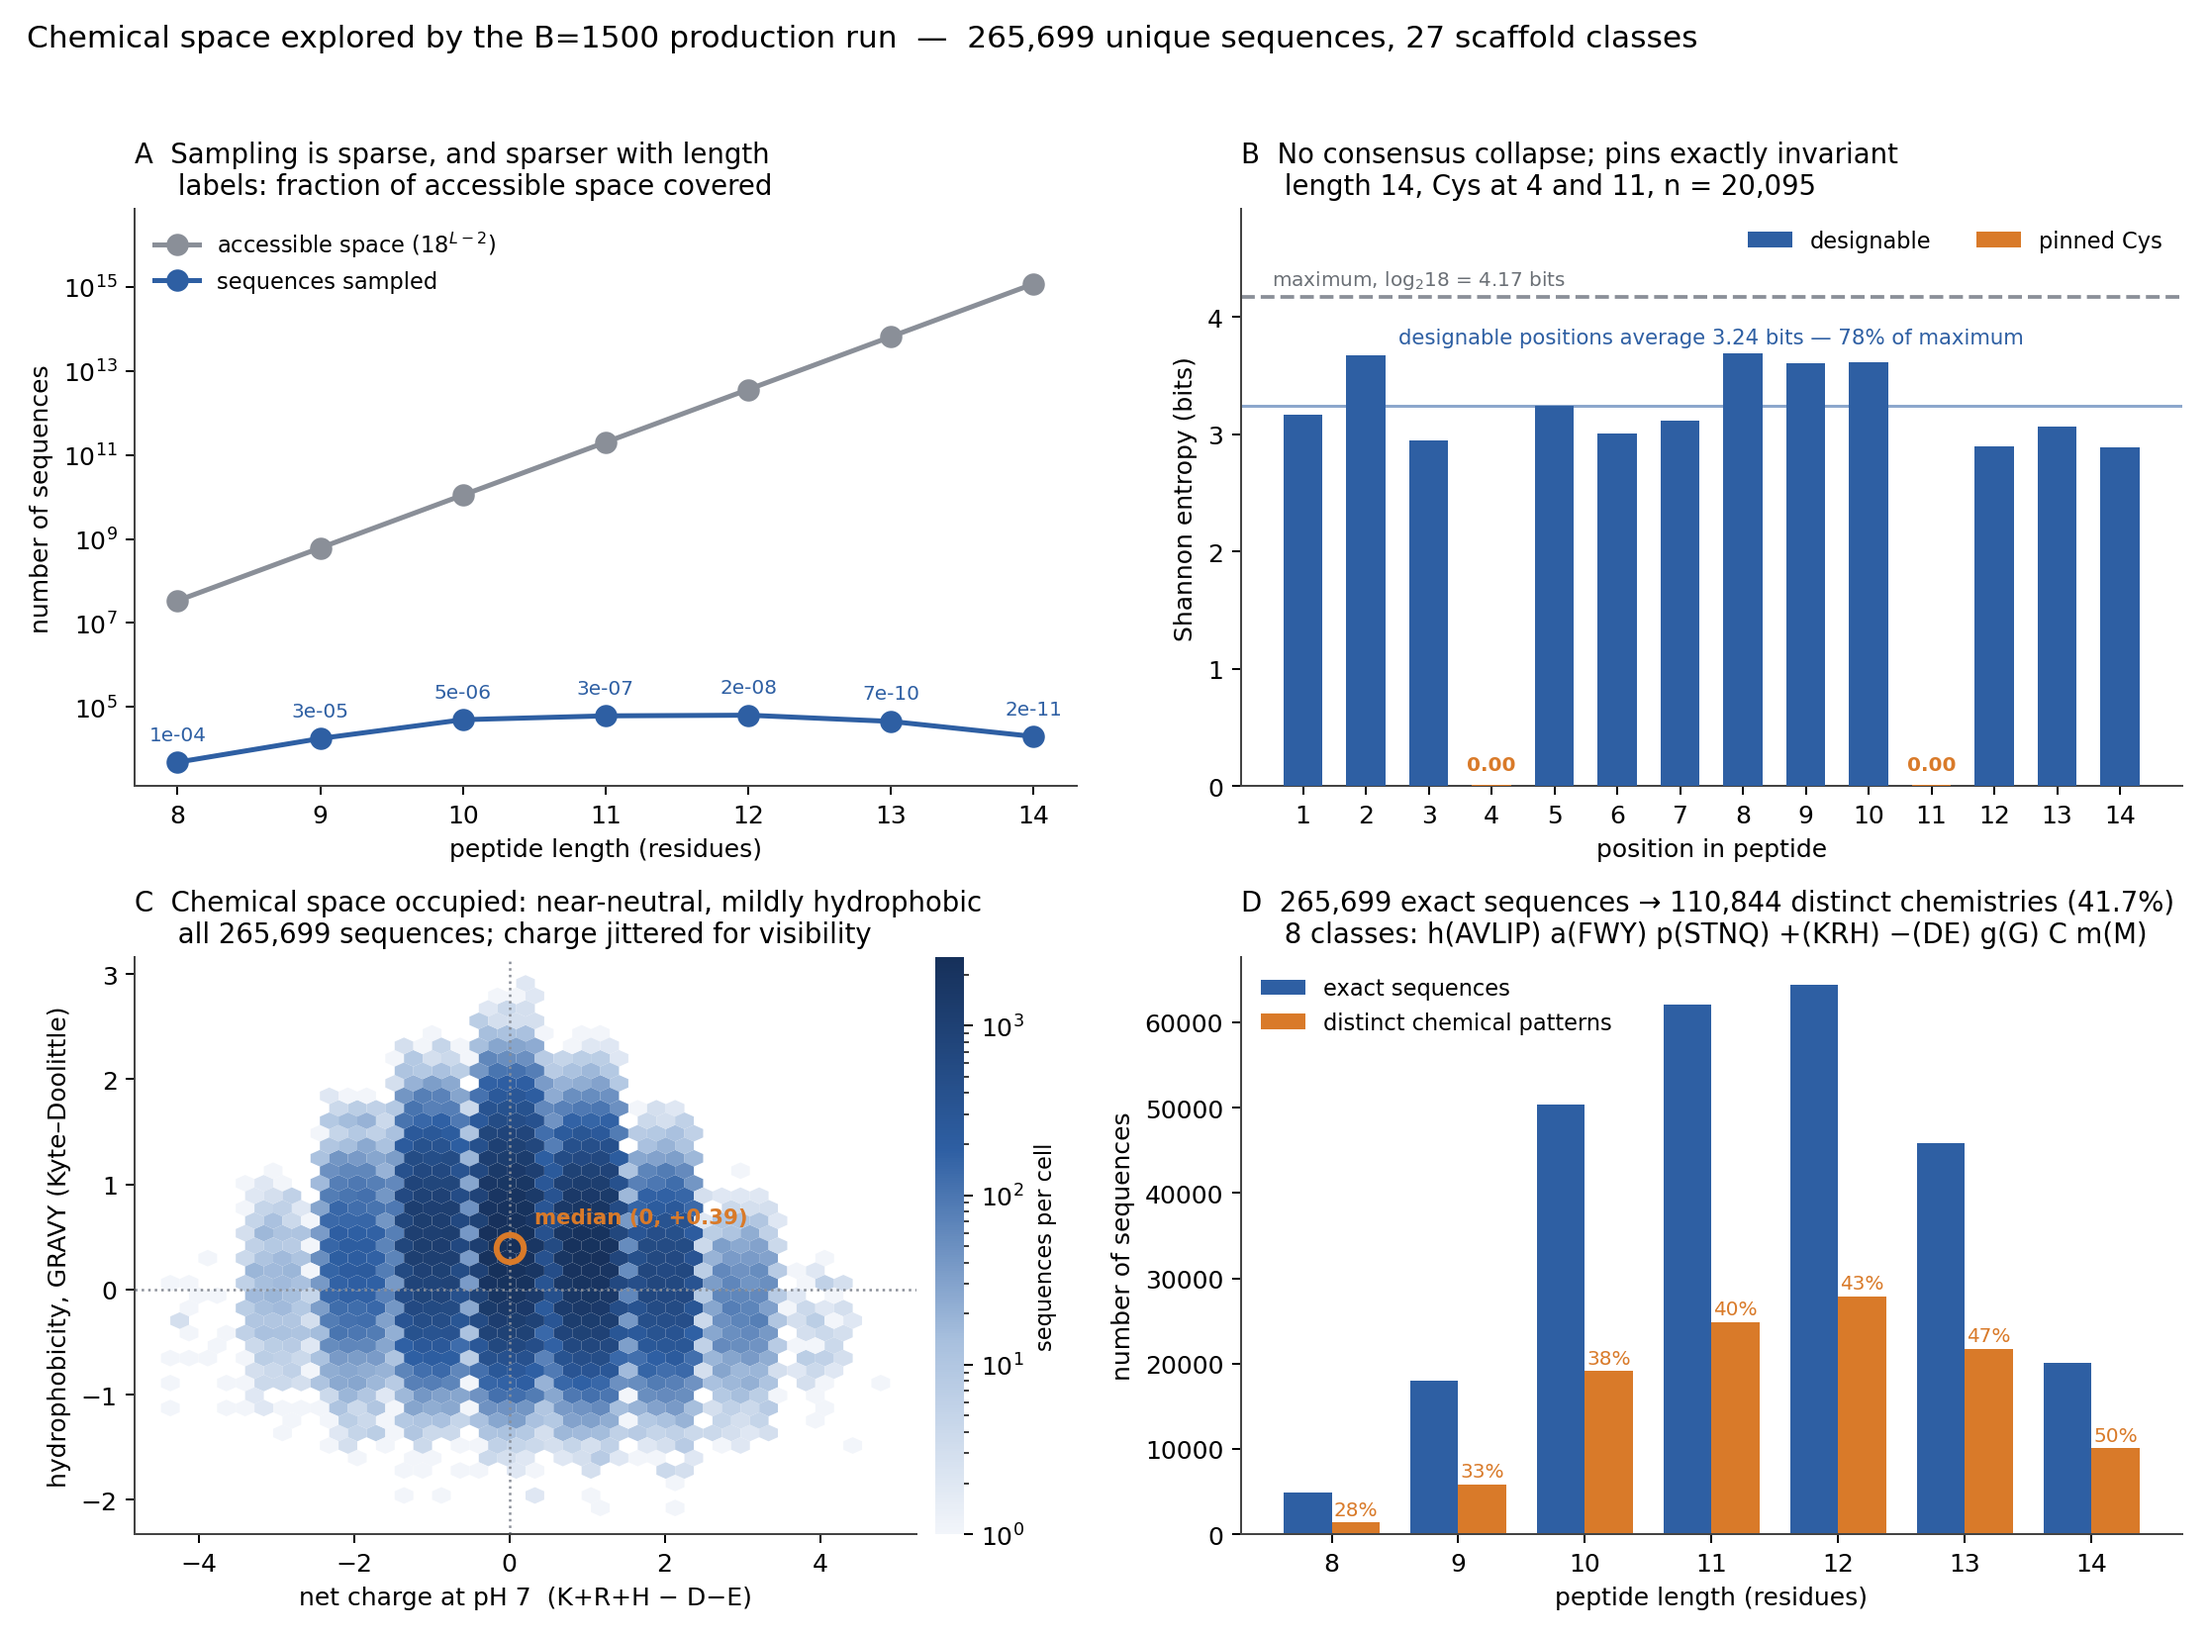
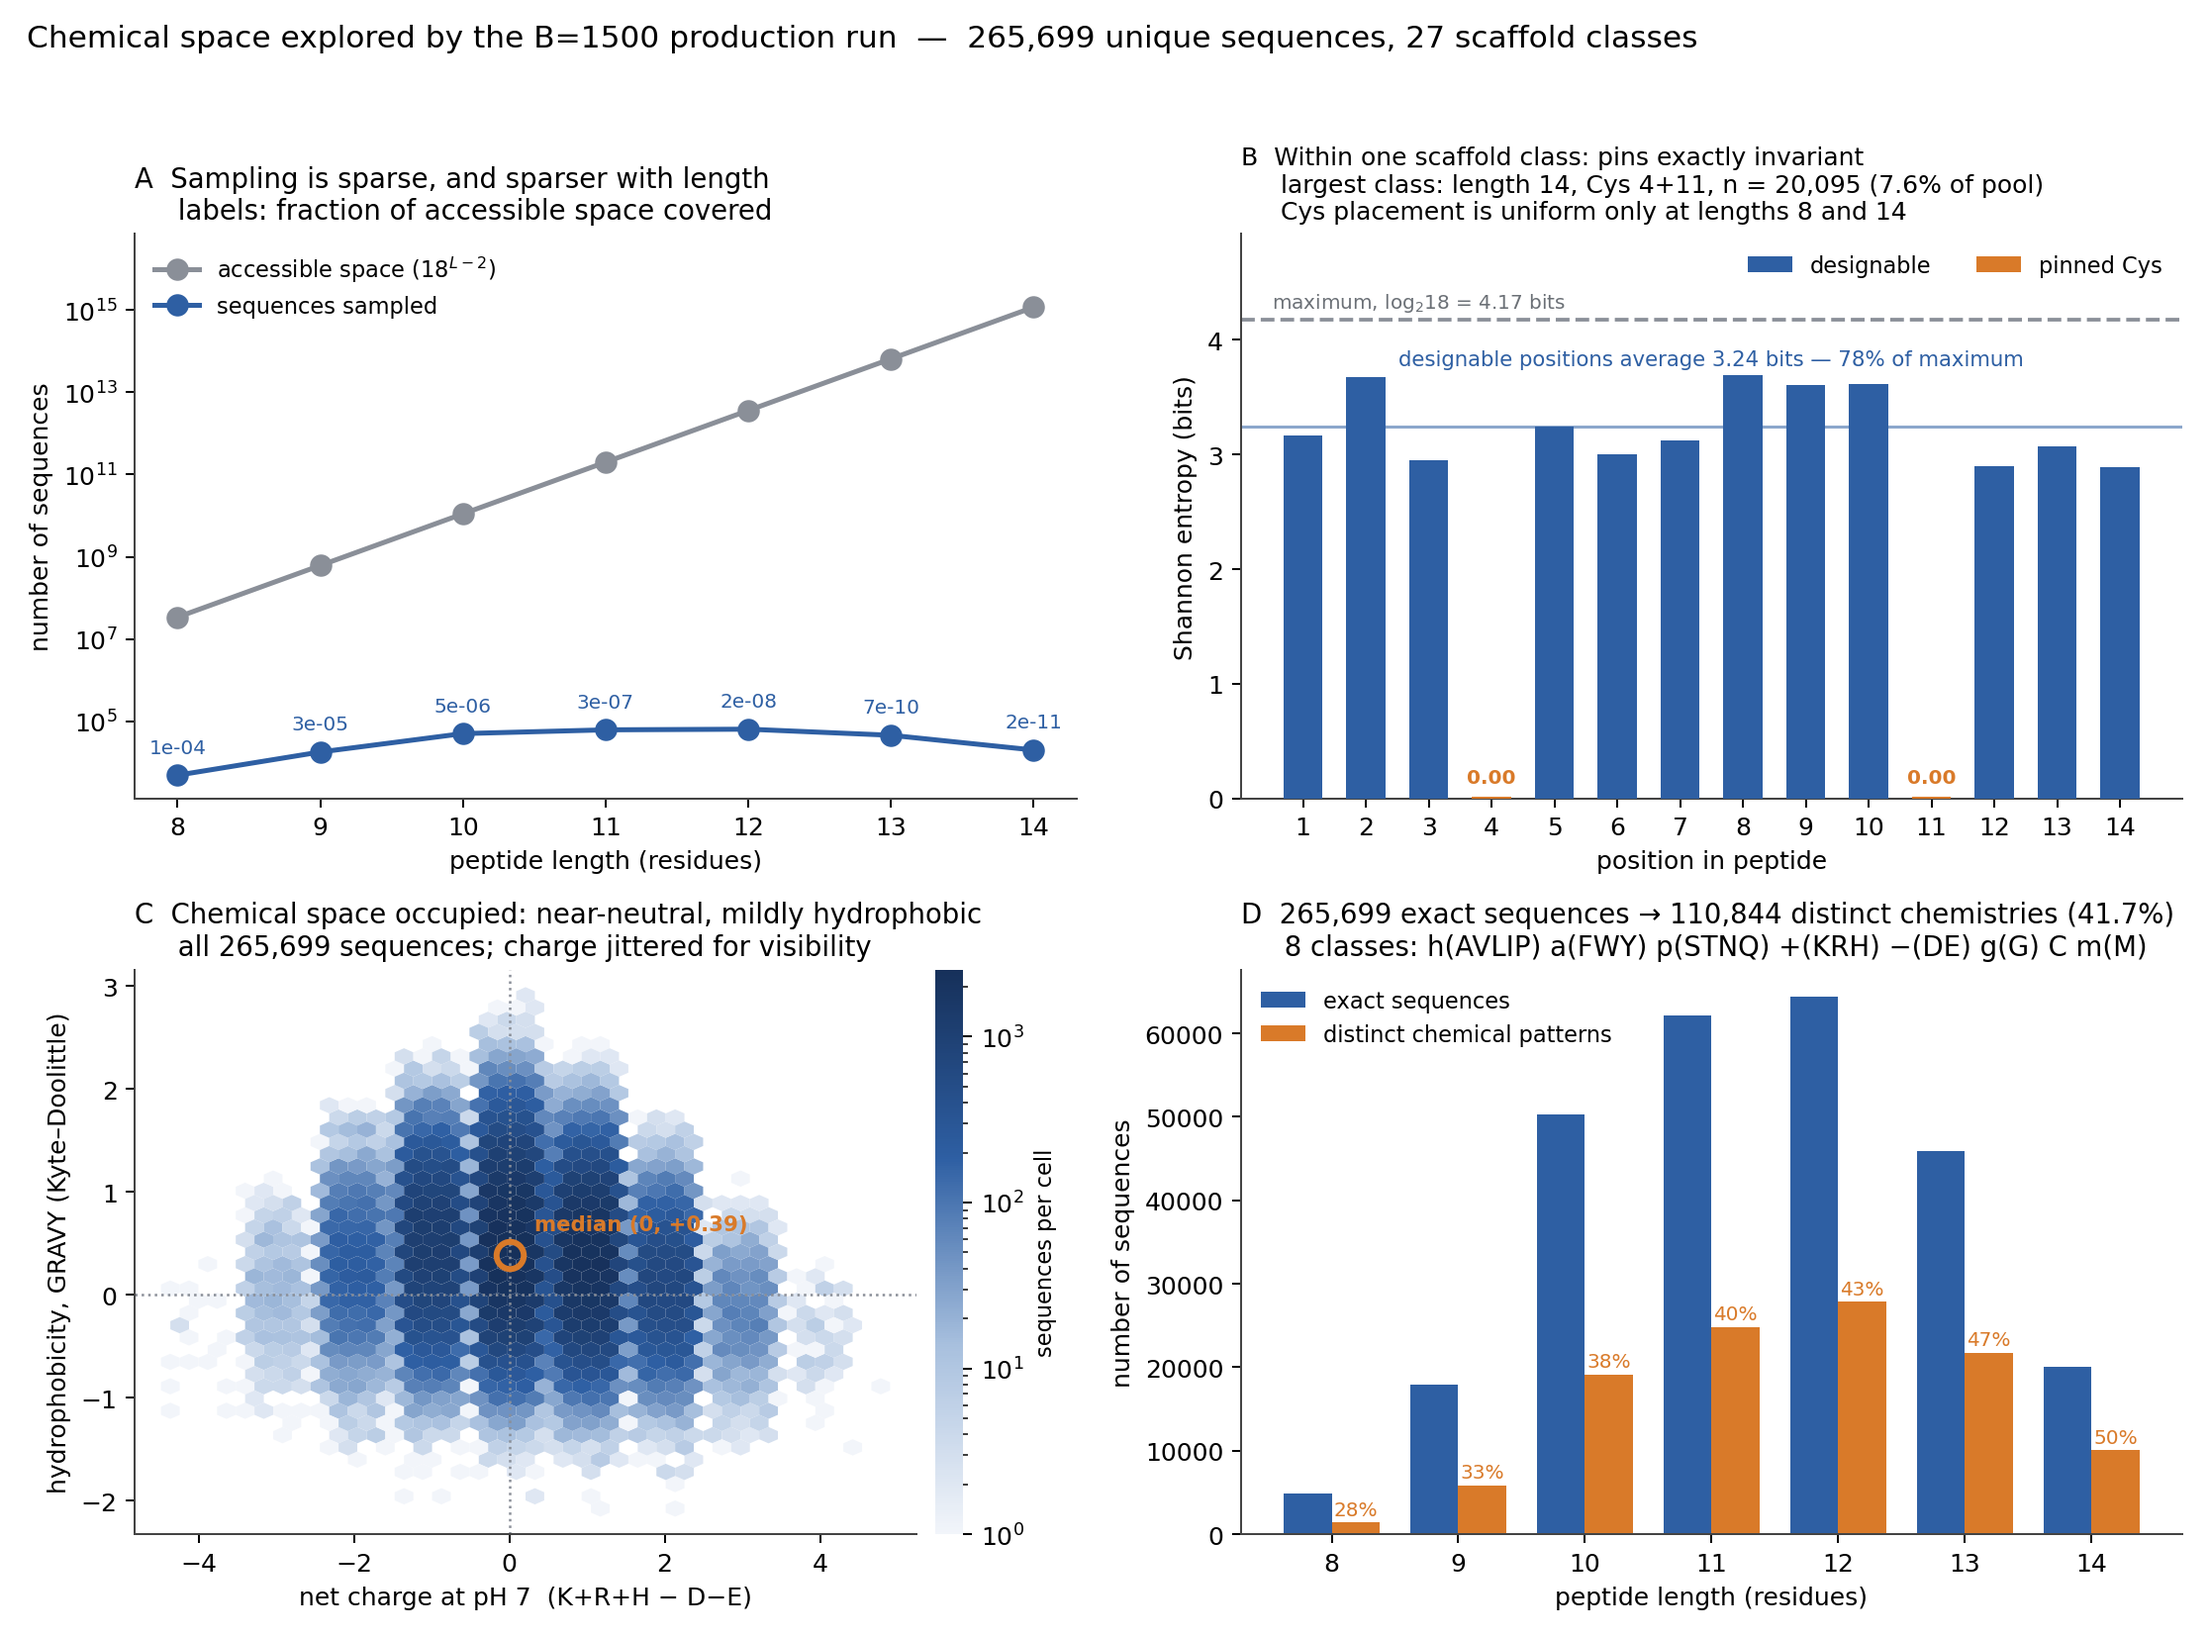
fig8 panel B: say it covers 7.6% of the pool, and the most favourable slice
User flagged that the chemical-space figure reads as though the whole pool is
14-mers with Cys at 4 and 11. The numbers are correct -- all 20,095 length-14
sequences do have Cys at exactly (4,11), verified against
unique_sequences.csv -- but the panel is built from
max(cls.items(), key=len), the largest single (length, Cys-position) class, and
nothing said so.

That class is 7.6% of the pool AND the most favourable one available. Cysteine
placement is uniform at only two of seven lengths:

  len  8   4,909   (2,7) 100%
  len  9  17,973   (3,8) 45%  (2,8) 28%  (2,7) 27%
  len 10  50,339   (2,8) 20%  (2,7) 19%  (4,9) 17%
  len 11  62,097   (2,8) 17%  (4,10) 16%  (2,9) 14%
  len 12  64,416   (3,9) 20%  (3,10) 17%  (4,9) 17%
  len 13  45,870   (3,10) 37%  (4,11) 34%  (4,10) 29%
  len 14  20,095   (4,11) 100%

The three largest bands -- 10, 11, 12, together 66% of the pool -- have no
dominant pin position. So "pins exactly invariant" is a within-class result,
not a property of the run; length 14 is one of the only two bands where the
panel could be drawn at all without smearing the pins into nonzero entropy.

Panel title now states the class, its size and its 7.6% share on three lines,
plus the uniform-only-at-8-and-14 caveat. Rendered and checked: the first
attempt overflowed the axes and collided the note with the 0.00 labels.

Doc also said "Cys at 3 and 10" -- the script's 0-indexed debug output copied
verbatim, contradicting the figure's correct 4 and 11. Fixed, and the
[…]

diff --git a/scripts/viz/plot_chemical_space.py b/scripts/viz/plot_chemical_space.py
@@ -125,9 +125,18 @@ axB.set_xticks(x)
 axB.set_xlabel("position in peptide")
 axB.set_ylabel("Shannon entropy (bits)")
 axB.set_ylim(0, ceil * 1.18)
-axB.set_title("B  No consensus collapse; pins exactly invariant\n"
-              "     length %d, Cys at %d and %d, n = %s"
-              % (L, cysp[0] + 1, cysp[1] + 1, format(len(members), ",")), loc="left")
+# The class plotted is the largest single (length, Cys-position) group, NOT the
+# whole pool and NOT a typical length. Cysteine placement is only uniform at
+# lengths 8 and 14; at 9-13 several Cys-position pairs coexist (at length 11 the
+# commonest is just 17%), so a per-position entropy plot is only well defined
+# within one such class. Saying "length 14, Cys at 4 and 11" without saying it is
+# a 7.6% slice invites the reading that the whole pool is 14-mers.
+_frac = 100.0 * len(members) / len(seqs)
+axB.set_title("B  Within one scaffold class: pins exactly invariant\n"
+              "     largest class: length %d, Cys %d+%d, n = %s (%.1f%% of pool)\n"
+              "     Cys placement is uniform only at lengths 8 and 14"
+              % (L, cysp[0] + 1, cysp[1] + 1, format(len(members), ","), _frac),
+              loc="left", fontsize=10)
 axB.legend(frameon=False, fontsize=9, loc="upper right", ncol=2)
 
 # ---- C: the chemical space map -------------------------------------------

diff --git a/docs/PRODUCTION_RUN_v3.md b/docs/PRODUCTION_RUN_v3.md
@@ -454,9 +454,12 @@ C and M are omitted from the design pool.
 ![Chemical space explored](figures/prod_fig8_chemical_space.png)
 
 *Panel A — sampling against the accessible space, log scale; labels give the
-fraction covered. Panel B — per-position Shannon entropy inside the largest
-scaffold class; the two orange bars are the pinned cysteines at exactly 0.00
-bits. Panel C — the occupied region of charge/hydrophobicity space, all 265,700
+fraction covered. Panel B — per-position Shannon entropy inside the **largest
+single scaffold class only** (length 14, Cys at 4 and 11, n = 20,095 — **7.6% of
+the pool**); the two orange bars are the pinned cysteines at exactly 0.00 bits.
+Per-position entropy is only well defined within one such class, and cysteine
+placement is uniform at **lengths 8 and 14 only**, so this panel is not
+representative of the pool's other five length bands — see below. Panel C — the occupied region of charge/hydrophobicity space, all 265,700
 sequences, log density. Panel D — exact sequences against distinct
 physicochemical patterns, per length. Regenerate with
 `python scripts/viz/plot_chemical_space.py`.*
@@ -481,7 +484,8 @@ form "the best binder in this chemical space" is unsupportable; the defensible
 claim is "the best binder among 265,700 sampled points."
 
 **Positional diversity is high and the pins are exact.** Largest class
-(length 14, Cys at 3 and 10, n = 20,095), entropy per position in bits:
+(length 14, Cys at **4 and 11**, 1-indexed, n = 20,095), entropy per position in
+bits:
 
 ```
 3.17  3.67  2.95  0.00  3.24  3.00  3.12  3.69  3.60  3.61  0.00  2.90  3.07  2.89
@@ -493,6 +497,26 @@ ProteinMPNN is not collapsing onto a consensus; it is sampling broadly at every
 free position. The two cysteine positions measure **exactly 0.00 bits** across
 all 20,095 sequences, which is independent confirmation that the fixed-position
 mechanism held for every draw.
+
+**Read this panel narrowly — it covers 7.6% of the pool, and it is the most
+favourable slice.** Cysteine placement is uniform only at the two extreme
+lengths; the five bands in between carry several pin positions at once:
+
+| length | n | commonest Cys positions |
+|---|---:|---|
+| 8 | 4,909 | (2,7) **100%** |
+| 9 | 17,973 | (3,8) 45%, (2,8) 28%, (2,7) 27% |
+| 10 | 50,339 | (2,8) 20%, (2,7) 19%, (4,9) 17% |
+| 11 | 62,097 | (2,8) 17%, (4,10) 16%, (2,9) 14% |
+| 12 | 64,416 | (3,9) 20%, (3,10) 17%, (4,9) 17% |
+| 13 | 45,870 | (3,10) 37%, (4,11) 34%, (4,10) 29% |
+| 14 | 20,095 | (4,11) **100%** |
+
+The three largest bands — 10, 11 and 12, which together are 66% of the pool —
+have no dominant pin position at all. The 0.00-bit result therefore says the
+pinning mechanism works *within a scaffold class*; it is not a statement that
+the whole run shares one cysteine geometry. The 27 scaffold classes exist
+precisely because it does not.
 
 **Physicochemical envelope** (all 265,700):
 
